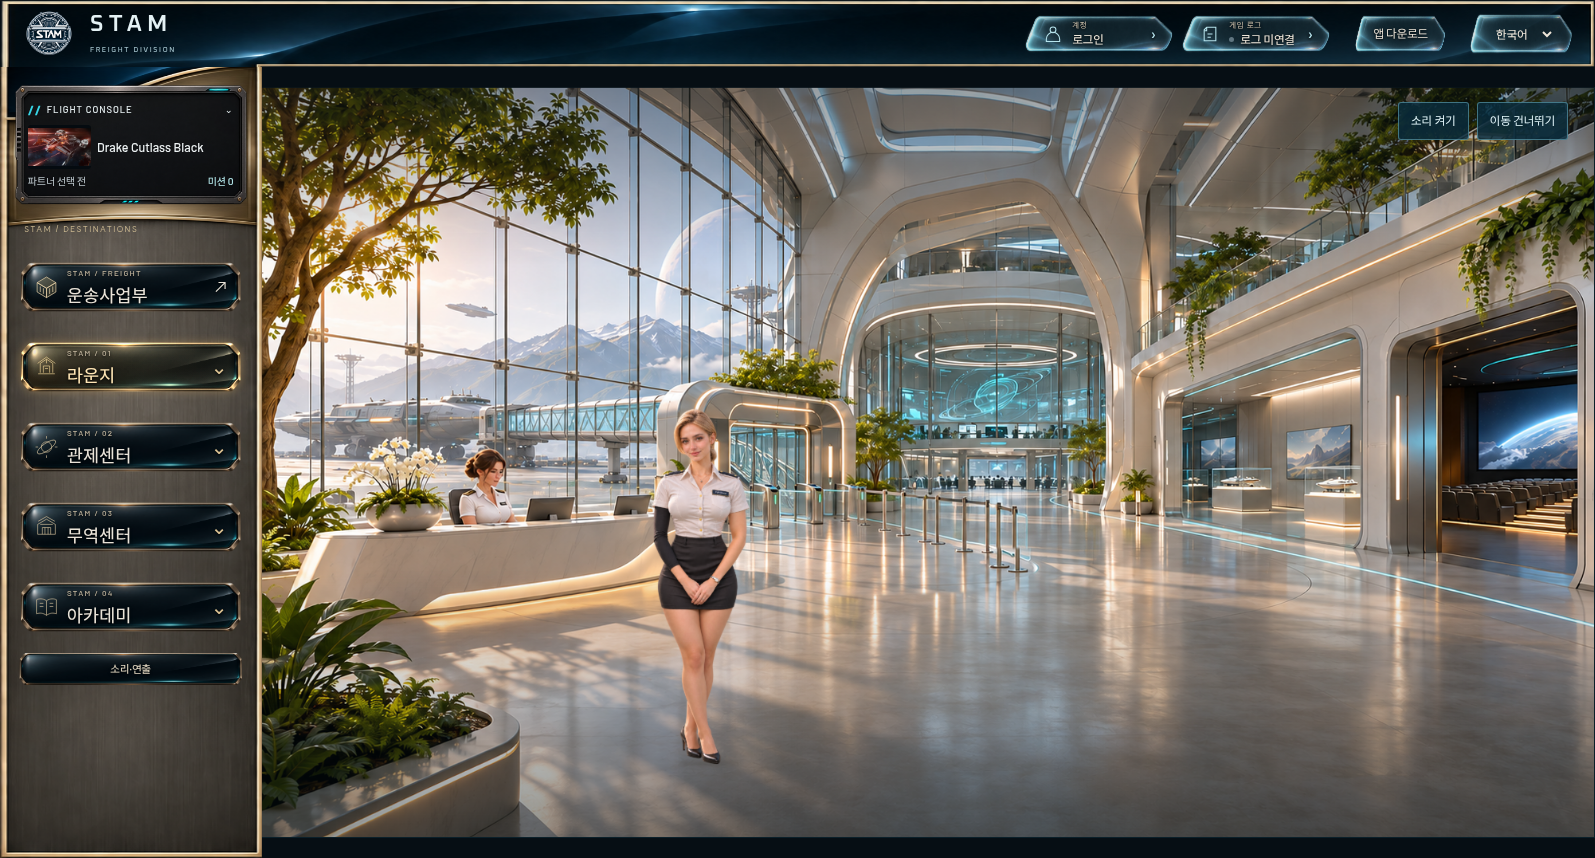
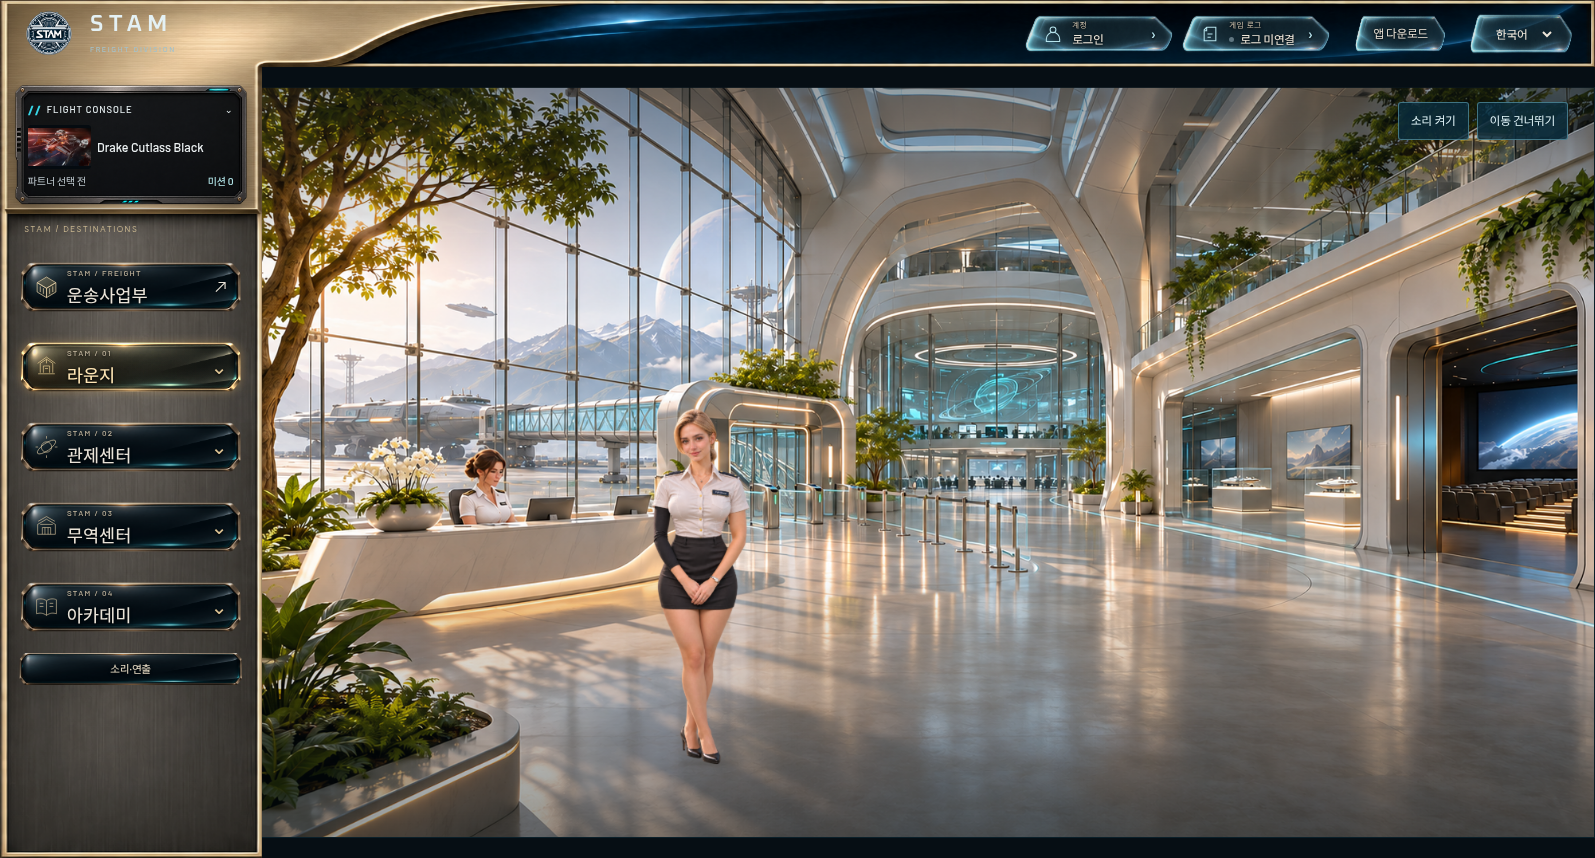
Refine continuous gold shell housing and straight console step

Changed region(s): [[0.0, 0.0, 1.0, 0.2727]]

diff --git a/apps/control-room/src/ShellMaterial.tsx b/apps/control-room/src/ShellMaterial.tsx
@@ -1,21 +1,48 @@
-import material from './assets/navigation/clean-shell-material.png';
+import {useLayoutEffect,useRef} from 'react';
 import accent from './assets/navigation/shell-gold-gunmetal.png';
 
 /** A clean material asset, with no baked-in controls or room screenshot.
  * The corner and edge heights stay fixed; the plain strips fill the existing
  * navigation area without setting the dimensions of the live scene.
- * Zone 1 keeps the original glass; zone 2 is a raised gold housing and zone 3
- * is brushed gunmetal. The curved detail stays inside the sidebar cell. */
+ * A single casting spans the header and console surround. The header uses a
+ * curved material boundary; the sidebar ends the housing in a straight step.
+ * Curves stay in the chrome and never round or cover the scene aperture. */
 export function ShellMaterial(){
+ const root=useRef<HTMLDivElement>(null);
+ useLayoutEffect(()=>{
+  const material=root.current,shell=material?.closest('.space-experience');
+  const sidebar=shell?.querySelector<HTMLElement>('.space-sidebar');
+  const console=shell?.querySelector<HTMLElement>('.pilot-desk');
+  const destination=shell?.querySelector<HTMLElement>('.space-division-button');
+  const caption=shell?.querySelector<HTMLElement>('.space-sidebar-caption');
+  const header=shell?.querySelector<HTMLElement>('.space-topbar');
+  if(!material||!sidebar||!console||!destination||!header)return;
+  let frame=0;
+  const align=()=>{
+   frame=0;
+   if(window.innerWidth<=760)return;
+   const bottom=console.getBoundingClientRect().bottom;
+   const next=(caption??destination).getBoundingClientRect().top;
+   const height=Math.max(0,(bottom+next)/2-header.getBoundingClientRect().bottom);
+   material.style.setProperty('--shell-connector-height',`${height}px`);
+  };
+  const schedule=()=>{if(!frame)frame=requestAnimationFrame(align);};
+  const observer=new ResizeObserver(schedule);
+  observer.observe(console);observer.observe(sidebar);observer.observe(header);
+  sidebar.addEventListener('scroll',schedule,{passive:true});
+  window.addEventListener('resize',schedule);align();
+  return()=>{observer.disconnect();cancelAnimationFrame(frame);sidebar.removeEventListener('scroll',schedule);window.removeEventListener('resize',schedule);};
+ },[]);
  const pieces=[
-  ['join','0 0 216 102',material],
-  ['top','216 0 1314 102',material],
-  ['top-end','1530 0 6 102',material],
+  ['join','0 0 216 102',accent],
+  ['sweep','216 0 384 102',accent],
+  ['top','600 0 930 102',accent],
+  ['top-end','1530 0 6 102',accent],
   ['connector','0 102 216 300',accent],
   ['side','0 402 216 616',accent],
   ['side-end','0 1018 216 6',accent],
  ];
- return <div className="shell-material" aria-hidden="true">
+ return <div ref={root} className="shell-material" aria-hidden="true">
   {pieces.map(([part,viewBox,source])=><svg key={part} className={`shell-piece shell-${part}`} viewBox={viewBox} preserveAspectRatio="none" focusable="false">
    <image href={source} x="0" y="0" width="1536" height="1024"/>
   </svg>)}

diff --git a/apps/control-room/src/black-gold-shell.css b/apps/control-room/src/black-gold-shell.css
@@ -46,10 +46,11 @@
 .shell-material{position:absolute;inset:0;z-index:-1;pointer-events:none;overflow:hidden}
 .shell-piece{position:absolute;display:block;overflow:hidden}
 .shell-join{left:0;top:0;width:var(--shell-sidebar-width);height:67px}
-.shell-top{left:var(--shell-sidebar-width);right:4px;top:0;width:calc(100% - var(--shell-sidebar-width) - 4px);height:67px}
+.shell-sweep{left:var(--shell-sidebar-width);top:0;width:320px;height:67px}
+.shell-top{left:calc(var(--shell-sidebar-width) + 320px);right:4px;top:0;width:calc(100% - var(--shell-sidebar-width) - 324px);height:67px}
 .shell-top-end{right:0;top:0;width:4px;height:67px}
-.shell-connector{left:0;top:67px;width:var(--shell-sidebar-width);height:164px}
-.shell-side{left:0;top:231px;width:var(--shell-sidebar-width);height:calc(100% - 237px)}
+.shell-connector{left:0;top:67px;width:var(--shell-sidebar-width);height:var(--shell-connector-height,164px)}
+.shell-side{left:0;top:calc(67px + var(--shell-connector-height,164px));width:var(--shell-sidebar-width);height:max(0px,calc(100% - 73px - var(--shell-connector-height,164px)))}
 .shell-side-end{left:0;bottom:0;width:var(--shell-sidebar-width);height:6px}
 .space-experience>header.space-topbar{position:relative;background:transparent;border:0;box-shadow:none;height:67px;min-height:67px;padding:8px 24px;box-sizing:border-box;gap:28px}
 .space-experience .space-main{grid-template-columns:var(--shell-sidebar-width) minmax(0,1fr)}
@@ -77,7 +78,8 @@
  .shell-connector,.shell-side,.shell-side-end{display:none}
  .shell-piece{height:120px}
  .shell-join{width:150px}
- .shell-top{left:150px;right:4px;width:calc(100% - 154px)}
+ .shell-sweep{left:150px;width:110px}
+ .shell-top{left:260px;right:4px;width:calc(100% - 264px)}
  .shell-top-end{width:4px}
  .space-sidebar :is(.space-group-button,.space-division-button){height:72px;min-height:72px}
  .space-sidebar :is(.space-group-button,.space-division-button) strong{font-size:17px}

diff --git a/docs/cinematics/shell-layout-fix-20261118/HANDOFF.md b/docs/cinematics/shell-layout-fix-20261118/HANDOFF.md
@@ -4,13 +4,15 @@
 - 작업 브랜치: `cinematic/shell-layout-fix-20261118`.
 - 기능 담당이 최신 기능 변경을 보존하면서 통합한다. main·공통 인계 직접 병합/배포 없음.
 
-## 최신 디자인 확정 — 상단 유리 / 볼록한 금색 연결부 / 건메탈
+## 최신 디자인 확정 — 상단 곡선 / 콘솔 아래 직선 단차
 
-사용자 표시의 1번은 기존 청남색 유리 상단바, 2번은 플라이트 콘솔 주변의 황금빛 연결부, 3번은 메뉴 뒤 건메탈로 반영했다. 2번은 얕게 볼록한 금속 면·곡선 베벨·미세한 결·반사광을 가진 별도 생성 자산이며 실제 A 콘솔은 그 앞에 기존 크기로 유지한다. 곡선은 바 내부 장식이고 본문과 맞닿는 경계는 여전히 직각이다.
+상단 왼쪽에서 플라이트 콘솔 둘레까지 하나로 이어지는 두꺼운 샴페인 골드 하우징을 적용했다. 상단의 금속/청남색 유리 경계는 곡선이고, 사이드바에서는 플라이트 콘솔 바로 아래·운송사업부 버튼 위에서 수평 직선 단차로 끝난다. 그 아래는 건메탈이다. 별도 둥근 콘솔 받침 시안은 이번 자산으로 교체했다.
 
-`clean-shell-material.png`와 상단 3개 source rectangle은 그대로 사용한다. 새 `shell-gold-gunmetal.png`의 금색 연결부만 고정 높이 164px, 아래 건메탈과 끝 테두리는 남는 사이드바 높이에 배치한다. 모바일은 기존 상단만 사용하며 데스크톱 장식을 별도 공간으로 추가하지 않는다. 본문·폰트·버튼·콘솔 크기 및 전환 좌표 변경 없음.
+최종 `shell-gold-gunmetal.png` 하나를 일곱 영역으로 나누어 사용한다. 상단의 곡선 구간 폭은 고정하고 오른쪽 유리만 남은 길이를 채운다. `ShellMaterial.tsx`의 ResizeObserver는 콘솔 요약 높이와 스크롤을 따라 단차를 요약 하단과 메뉴 캡션 사이에 맞춘다. 상세창은 기존처럼 메뉴 앞에 겹쳐 펼쳐지므로 하우징을 늘리거나 메뉴를 밀지 않는다. 관찰자/이벤트는 해제 시 정리하며 기능 상태나 본문 크기는 바꾸지 않는다. 760px 이하에서는 사이드 장식을 숨기고 상단 재질만 기존 반응형 바에 사용한다.
 
-이번 재질 수정 뒤 타입/생산 빌드와 `verify-layout.mjs` 12개 결과를 다시 통과했고 최종 캡처를 갱신했다. 아래 앱175개·루트282/283 결과는 직전 기하 수정 시의 검사이며 이번 재질 교체만으로 전체 검사를 반복하지 않았다.
+기존 A 콘솔·D 버튼·Barlow/SUIT 글꼴과 본문/가이드 영상 좌표는 유지했다. 새 원본은 `/workspace/generated_images/exec-6dacd686-aad4-46b2-a917-2edb62bae12d.png`이며 출처/해시는 `assets/provenance.json`에 저장했다. 이전 clean 자산은 보존하지만 현재 셸에서 import하지 않는다.
+
+이번 수정 뒤 타입/생산 빌드, 기존 화면 검증 12개, 콘솔 접힘/펼침/스크롤/다시 접힘의 단차 검사 4개를 통과했다. `review/housing-final.png`, `housing-expanded.png`, `housing-checks.json` 및 기존 최종 캡처를 갱신했다. 아래 앱175개·루트282/283은 앞선 기하 수정 당시 검사 결과다.
 
 ## 문제와 수정
 
@@ -18,7 +20,7 @@
 
 사용자 후속 결정에 따라 **장면을 바에 맞추지 않고 원래 장면 배치를 복구**했다. 데스크톱 상단 67px, 사이드바 `clamp(248px,16.4vw,320px)`, 본문 추가 패딩/상단 여백 없음. 기존 1672:941 비율을 유지한다. 가이드에서도 같은 사이드바와 장면 셀을 사용하며 도착 전/복귀 중에는 모바일 대화용 세로 크롭을 적용하지 않는다. 도착 후 모바일 대화의 세로 스크롤 구성은 유지한다.
 
-시안 확대를 없애기 위해 글자/사진/버튼이 없는 **새 바 전용 자산**을 image_gen으로 제작했다. 생성 결과는 네이티브 1536×1024 RGBA PNG이며 3K/4K라고 주장하지 않는다. 최초 둥근 안쪽 모서리는 사용자 지적에 따라 직각으로 다시 생성했다. 최종 자산은 안팎 모두 직각이고 상단·왼쪽 영역에만 렌더링한다. 콘텐츠 위에 그림자나 곡선 마스크를 겹치지 않는다. 다섯 소스 영역으로 나눠 연결하고 길이가 필요한 부분만 늘린다. 높은 DPR에서 모든 픽셀이 원본과 동일하다는 보장은 아니다.
+시안 확대를 없애기 위해 글자/사진/버튼이 없는 **새 바 전용 자산**을 image_gen으로 제작했다. 생성 결과는 네이티브 1536×1024 RGBA PNG이며 3K/4K라고 주장하지 않는다. 최초 둥근 안쪽 모서리는 사용자 지적에 따라 직각으로 다시 생성했다. 최종 자산은 안팎 모두 직각이고 상단·왼쪽 영역에만 렌더링한다. 콘텐츠 위에 그림자나 곡선 마스크를 겹치지 않는다. 일곱 소스 영역으로 나눠 연결하고 길이가 필요한 부분만 늘린다. 높은 DPR에서 모든 픽셀이 원본과 동일하다는 보장은 아니다.
 
 기존 D 사이드 버튼, 청록 상단 버튼, A 플라이트 콘솔, 함선 이미지, Barlow/SUIT 폰트, 계정/로그/언어 및 기능 콜백은 유지한다. 데이터·계산·네이티브 앱·버전·공개 다운로드는 변경하지 않았다.
 
@@ -28,7 +30,7 @@
 - `apps/control-room/src/assets/navigation/clean-shell-material.png`, `shell-gold-gunmetal.png`: 바 전용 자산. 생성 원본은 별도 제작 폴더에 보존.
 - `apps/control-room/src/black-gold-shell.css`: 본문 이전 위치 복구, 바 영역 분리, 가이드 동일 셀 및 작은 화면 전환 기하 보정.
 - `apps/control-room/src/SpaceExperience.tsx`: 안내데스크에서 사이드바를 제거하던 조건만 제거. 공유 파일 전체 교체 금지.
-- 이 문서, `verify-layout.mjs`, `review/`, `assets/provenance.json`, `PROJECT_STATUS.md`.
+- 이 문서, `verify-layout.mjs`, `verify-housing.mjs`, `review/`, `assets/provenance.json`, `PROJECT_STATUS.md`.
 
 ## 검증
 

diff --git a/PROJECT_STATUS.md b/PROJECT_STATUS.md
@@ -1,6 +1,8 @@
-## 2026-11-18 연출 — 바 재질 3구역 후속 / PR #42 미배포
+## 2026-11-18 연출 — 연속 금색 하우징 적용 / PR #42 미배포
 
-같은 `cinematic/shell-layout-fix-20261118`에서 사용자 표시 1번 상단 유리는 원본 유지, 2번 콘솔 주변은 얕게 볼록한 황금빛 하우징/곡선 베벨, 3번 메뉴 영역은 건메탈로 수정했다. 새 생성 자산을 구간별로 사용하며 본문 직각 경계·복구한 좌표·기존 A콘솔/D버튼/폰트는 유지. 타입·생산 빌드 및 화면6크기/왕복/뒤로/사이드바/동작줄이기 12개 결과 재확인. 기존 전체검사 기록(앱175 통과, 루트282/283·한국어자료1실패)은 인계에 구분해 유지. 최종 캡처/출처: `docs/cinematics/shell-layout-fix-20261118/`. 기능 변경·병합·배포 없음.
+`cinematic/shell-layout-fix-20261118`: 사용자 최종 자산으로 상단 왼쪽부터 콘솔 둘레까지 하나의 금색 하우징을 연결했다. 상단 경계는 곡선, 콘솔 바로 아래·운송사업부 위는 직선 단차, 아래 메뉴 영역은 건메탈. 콘솔 요약 아래의 단차를 메뉴 캡션 위에 맞춘다. 상세창은 기존 방식대로 메뉴 앞에 겹쳐 펼쳐진다. 기존 본문/가이드 좌표·A콘솔/D버튼·폰트·기능은 유지했다. 앞선 별도 둥근 금색 받침은 교체된 시안이다.
+
+타입·빌드 및 기존 브라우저12개/단차4개 검사 통과. 실제 최종/펼침 캡처·출처·검증·인계는 `docs/cinematics/shell-layout-fix-20261118/`. 기존 전체검사 기록(앱175 통과, 루트282/283·한국어자료1실패)은 인계에 구분해 유지. main·공통 인계 병합/배포 없음.
 
 ## 2026-11-18 연출 — 원래 본문 위치 복구·직각 바 자산 / 미배포
 
